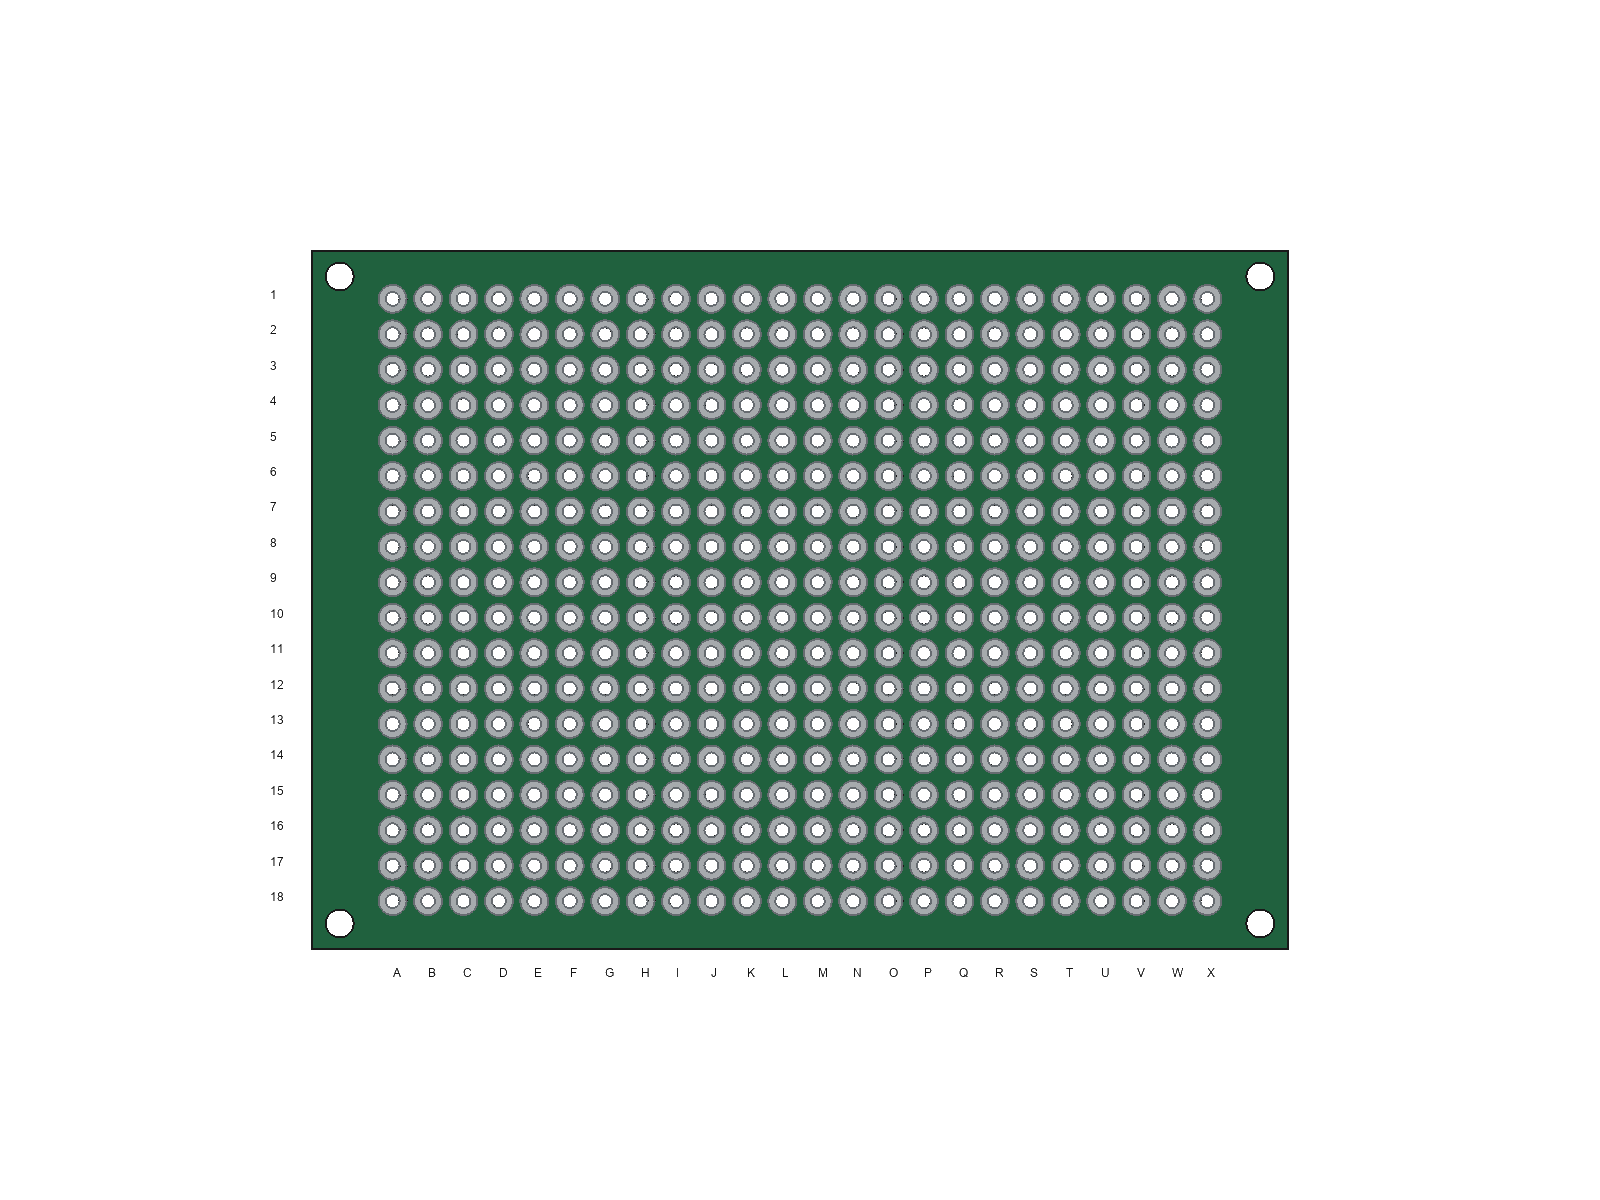
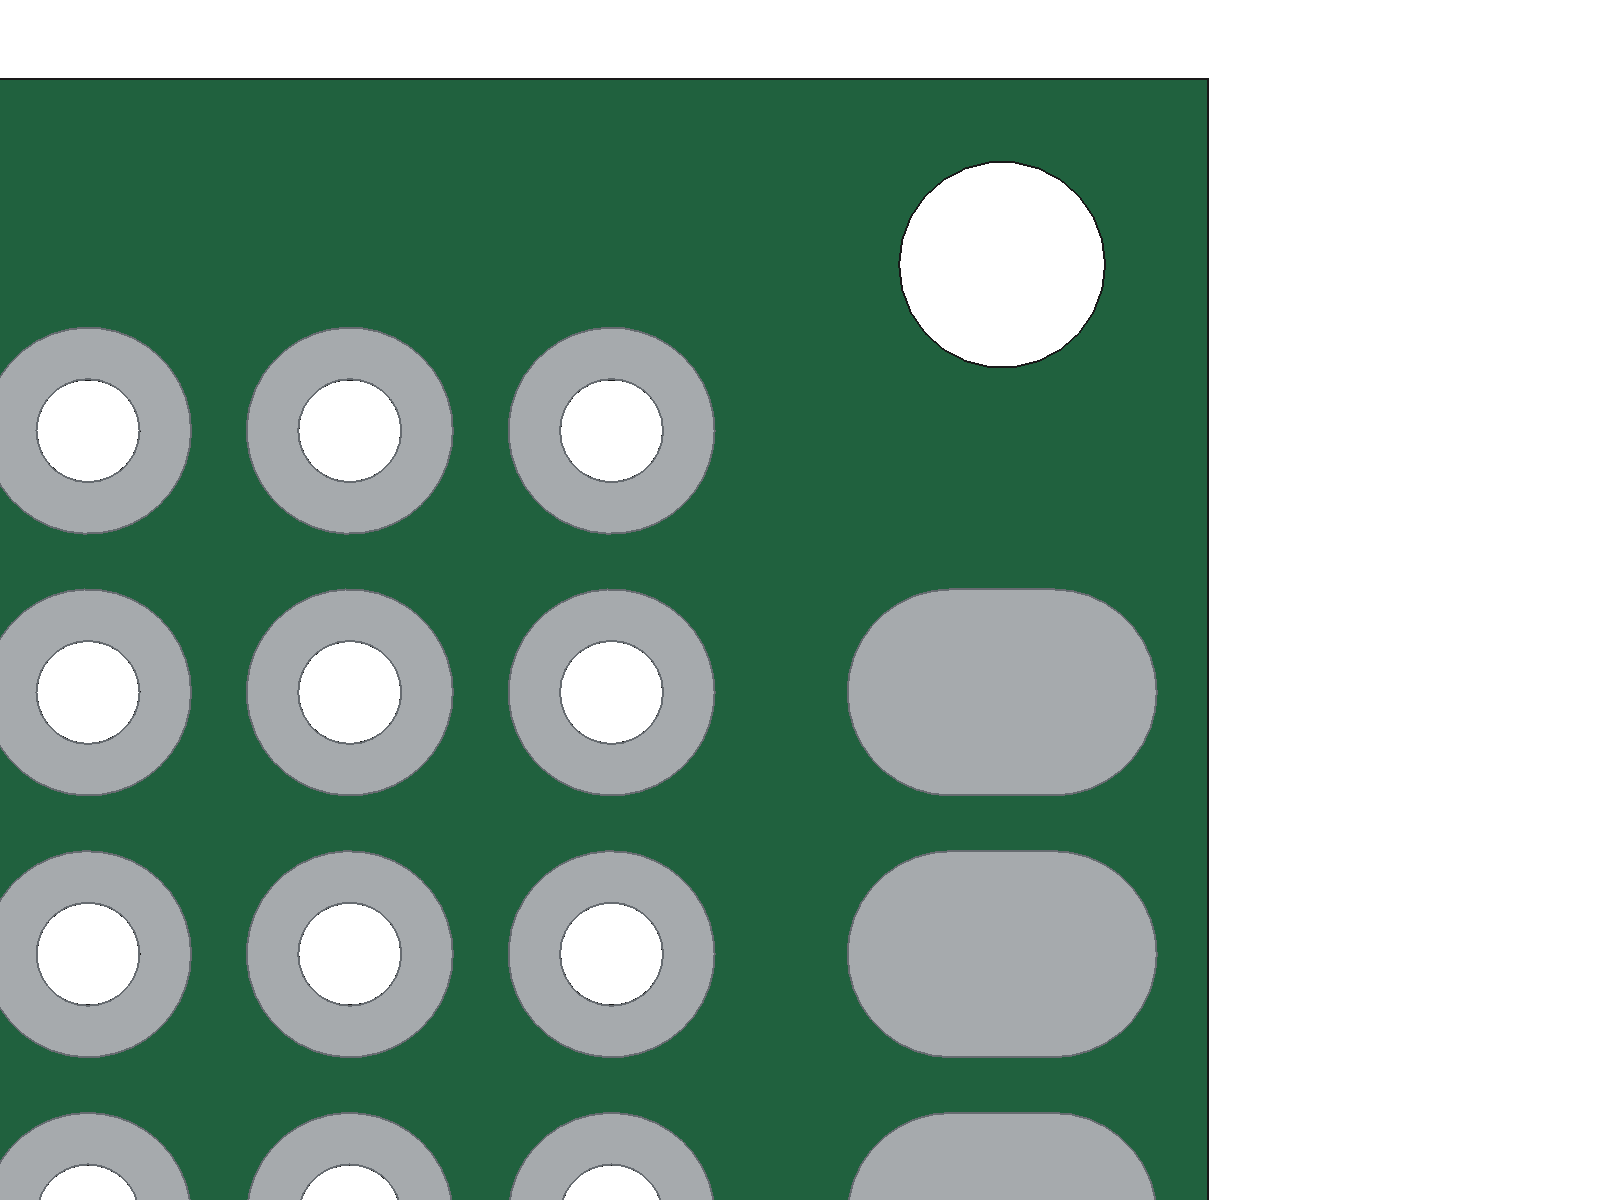
feat: add short-edge capsule pads with linked ring curvature

diff --git a/tools/add_carrier_edge_pads.py b/tools/add_carrier_edge_pads.py
@@ -1,0 +1,101 @@
+"""Add native linked capsule pads along both short edges, in the existing GUI."""
+from pathlib import Path
+import math
+import FreeCAD as App
+
+ROOT = Path(__file__).resolve().parents[1]
+FILE = ROOT / 'assets/cad/work/Sesame-S3-circuitry.FCStd'
+
+
+def main():
+    doc = next((d for d in App.listDocuments().values() if d.FileName == str(FILE)), None)
+    if doc is None:
+        doc = App.openDocument(str(FILE))
+    if doc.getObject('EdgePads'):
+        print('Edge pads already exist; preserving native edits.')
+        return
+    doc.openTransaction('Add sixteen capsule pads along each short edge')
+    try:
+        params = doc.addObject('App::FeaturePython', 'EdgePadParameters')
+        params.Label = 'Edge pads — 3 × 2 mm; edge inset provisional'
+        for name, value in [('Length', 3.0), ('Width', 2.0), ('EdgeInset', 2.0)]:
+            params.addProperty('App::PropertyLength', name, 'Pads')
+            setattr(params, name, value)
+        params.setExpression('Width', 'HoleGrid.HoleDiameter + 2 * PadParameters.RadialWidth')
+        params.addProperty('App::PropertyString', 'Evidence', 'Evidence')
+        params.Evidence = 'Instructor, 2026-09-23: sixteen metal pills per short edge, about 3 mm long and 2 mm wide; clarified end curvature matches the outer edge of the silver pinhole ring. Width expression follows ring outer diameter, giving end radius=1 mm initially. Photo-01 supports row 2-17 alignment and long axis across the margin. Centers assumed 2 mm from short edges, NOT measured. Repeated on both faces following double-sided board reference. Height follows visualization-only PadParameters.DisplayThickness; electrical purpose not verified.'
+        doc.Circuitry.addObject(params)
+        templates = doc.addObject('App::DocumentObjectGroup', 'EdgePadTemplates')
+        templates.Label = 'Hidden native capsule template'
+        middle = doc.addObject('Part::Box', 'EdgePadMiddle')
+        middle.setExpression('Length', 'EdgePadParameters.Length - EdgePadParameters.Width')
+        middle.setExpression('Width', 'EdgePadParameters.Width')
+        middle.setExpression('Height', 'PadParameters.DisplayThickness')
+        middle.setExpression('Placement.Base.x', '-(EdgePadParameters.Length - EdgePadParameters.Width) / 2')
+        middle.setExpression('Placement.Base.y', '-EdgePadParameters.Width / 2')
+        ends = []
+        for name, sign in [('Left', '-'), ('Right', '')]:
+            end = doc.addObject('Part::Cylinder', 'EdgePadEnd' + name)
+            end.setExpression('Radius', 'EdgePadParameters.Width / 2')
+            end.setExpression('Height', 'PadParameters.DisplayThickness')
+            end.setExpression('Placement.Base.x', sign + '(EdgePadParameters.Length - EdgePadParameters.Width) / 2')
+            ends.append(end)
+        capsule = doc.addObject('Part::MultiFuse', 'EdgePadCapsule')
+        capsule.Label = 'Parametric 3 × 2 mm capsule — shared by 64 pads'
+        capsule.Shapes = [middle] + ends
+        capsule.Refine = True
+        templates.Group = [middle] + ends + [capsule]
+        pads = doc.addObject('App::DocumentObjectGroup', 'EdgePads')
+        pads.Label = 'Edge pads — 16 per short edge, both faces'
+        doc.Circuitry.addObject(pads)
+        for face in ('Top', 'Bottom'):
+            for side in ('Left', 'Right'):
+                group = doc.addObject('App::DocumentObjectGroup', f'EdgePads{face}{side}')
+                group.Label = f'{face} {side.lower()} — rows 2–17'
+                pads.addObject(group)
+                for row in range(2, 18):
+                    link = doc.addObject('App::Link', f'EdgePad_{face}_{side}_{row}')
+                    link.setLink(capsule)
+                    link.Label = f'{face} {side.lower()} edge pad — row {row}'
+                    x = 'EdgePadParameters.EdgeInset' if side == 'Left' else 'Carrier.Length - EdgePadParameters.EdgeInset'
+                    link.setExpression('LinkPlacement.Base.x', 'Carrier.Placement.Base.x + ' + x)
+                    link.setExpression('LinkPlacement.Base.y', f'Hole_A{row}.Placement.Base.y')
+                    z = 'Carrier.Height' if face == 'Top' else '-PadParameters.DisplayThickness'
+                    link.setExpression('LinkPlacement.Base.z', 'Carrier.Placement.Base.z + ' + z)
+                    group.addObject(link)
+        doc.recompute()
+        assert capsule.Shape.isValid() and len(capsule.Shape.Solids) == 1
+        area = (params.Length.Value - params.Width.Value) * params.Width.Value + math.pi * (params.Width.Value / 2)**2
+        assert abs(capsule.Shape.Volume - area * doc.PadParameters.DisplayThickness.Value) < 1e-8
+        assert abs(capsule.Shape.BoundBox.XLength - 3) < 1e-8
+        assert abs(capsule.Shape.BoundBox.YLength - 2) < 1e-8
+        for group in pads.Group:
+            assert len(group.Group) == 16
+            for link in group.Group:
+                assert link.Shape.isValid()
+        doc.ValidationScope.CurrentStage = 'Carrier with signal holes, mounting holes, annular pads and edge capsule pads; offsets and metal height partly provisional, installed components pending.'
+        if App.GuiUp:
+            import FreeCADGui as Gui
+            capsule.ViewObject.ShapeColor = (0.78, 0.80, 0.82)
+            capsule.ViewObject.LineColor = (0.40, 0.42, 0.44)
+            for obj in [middle] + ends + [capsule, templates]:
+                obj.ViewObject.hide()
+            for group in pads.Group:
+                for link in group.Group:
+                    link.ViewObject.show()
+            Gui.Selection.clearSelection()
+        doc.recompute()
+        doc.commitTransaction()
+    except Exception:
+        doc.abortTransaction()
+        raise
+    doc.save()
+    if App.GuiUp:
+        from PySide import QtCore
+        def capture():
+            Gui.activeDocument().activeView().saveImage(str(FILE.parent / 'circuitry-preview.png'), 1600, 1200, 'White')
+            print('PASS: 64 native capsule pads, sixteen per edge per face; 3x2 mm outline and volume checked; existing document saved.')
+        QtCore.QTimer.singleShot(500, capture)
+
+
+main()

diff --git a/assets/cad/README.md b/assets/cad/README.md
@@ -231,4 +231,22 @@ is **0.01 mm for visualization only**, not a claim about copper/tin thickness.
 864 native `App::Link` objects reuse it. Centers are expression-linked to the named
 signal-hole cutters, and top/bottom heights follow the carrier thickness. These
 features remain editable without a Python proxy. The addition preserves existing
-pad objects on rerun. Side-edge conductive pads and plated barrels are still absent.
+pad objects on rerun. Plated barrels remain absent.
+
+### Short-edge capsule pads
+
+`tools/add_carrier_edge_pads.py` adds sixteen silver capsule pads along each short
+edge, aligned with rows 2–17 as observed in photo-01. They are repeated on both
+faces: 32 per face, 64 native links in total. Requested length is 3 mm. Width is
+expression-linked to the signal ring's outer diameter (currently 2 mm), so the
+semicircular ends have the **same 1 mm radius as the ring's outer edge**, per the
+instructor's clarification. `EdgePadParameters.Length` and `EdgeInset` are editable;
+`Width` follows the ring diameter. Keep length greater than width for this capsule
+construction. Axial height follows the same visualization-only metal thickness.
+
+Pad centers are provisionally 2 mm from the short edges, with their long axes
+across the board margin. Their electrical purpose has not been established.
+Native Boolean source geometry and links preserve editability without a proxy.
+The instructor's estimated 1.5 mm gap from silver ring edge to mounting-hole edge
+is not yet reconciled: the current model measures 2.118 mm at all four corners;
+grid edge offsets remain provisional. Adding edge pads does not adjust that gap.
